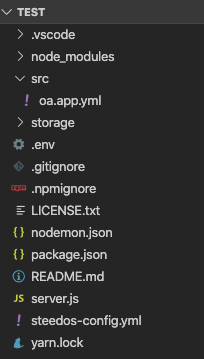
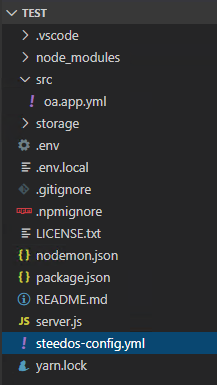
#82 环境变量

Changed region(s): [[0.0, 0.0, 1.0, 0.9805]]

diff --git a/docs/developer/env.md b/docs/developer/env.md
@@ -1,0 +1,34 @@
+---
+title: 环境变量
+---
+
+.env和.env.local，用于配置环境变量，位于项目的根目录。
+
+> 如果存在文件.env.local，系统启动时，就从文件.env.local中读取环境变量。反之，如果不存在文件.env.local，系统启动时，则从文件.env中读取环境变量。
+
+## 默认的环境变量
+
+项目创建后，默认的环境变量包括：
+
+```yml
+MONGO_URL=mongodb://127.0.0.1:27017/steedos
+PORT=5000
+ROOT_URL=http://127.0.0.1:5000
+```
+
+可按需修改这些环境变量的值。修改后，重启服务即生效。
+- MONGO_URL ： MongoDB的连接URL
+- PORT ： 系统的端口号 
+- ROOT_URL ： 系统的访问网址，建议改用本机的IP地址。这样，在其他机器就可以用ROOT_URL来访问系统了。
+
+## 自定义环境变量
+
+可以在env.local / .env 中，按需配置自定义的环境变量.？
+
+```yml
+***=****** ？
+```
+
+### 使用自定义环境变量
+
+可以在？文件中引用自定义环境变量，形式为 {env_name} ? 

diff --git a/docs/developer/guide_create.md b/docs/developer/guide_create.md
@@ -30,8 +30,15 @@ yarn
 其中
 
 - src: 项目源码
-- [steedos-config.yml](steedos_config.md): 项目配置文件，可以配置数据源、插件等参数。
-- package.json: 主要用于配置本项目以来的npm包。
+- [.env](env): 环境变量配置文件，可以配置端口、URL等环境变量。
+- [.env.local](env): 本地的环境变量配置文件，可以配置端口、URL等环境变量。
+
+> 如果存在文件.env.local，系统启动时，就从文件.env.local中读取环境变量。反之，如果不存在文件.env.local，系统启动时，则从文件.env中读取环境变量。
+
+> 建议修改.env.local中的ROOT_URL，其默认值中的IP为“127.0.0.1”，可改用本机的IP地址。这样，在其他机器就可以用ROOT_URL来访问系统了。
+
+- [steedos-config.yml](steedos_config): 项目配置文件，可以配置数据源、插件等参数。
+- package.json: 主要用于配置本项目依赖的npm包。
 
 ## 运行Steedos项目
 
